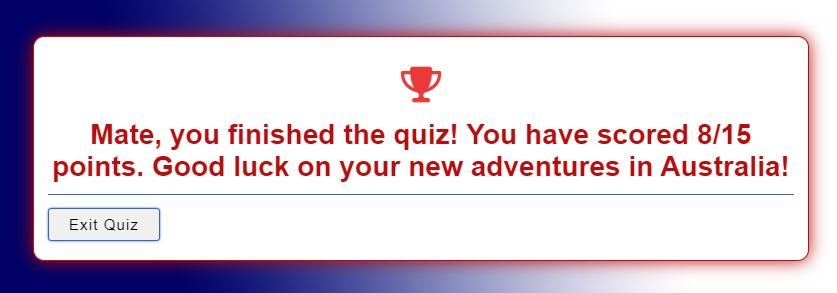
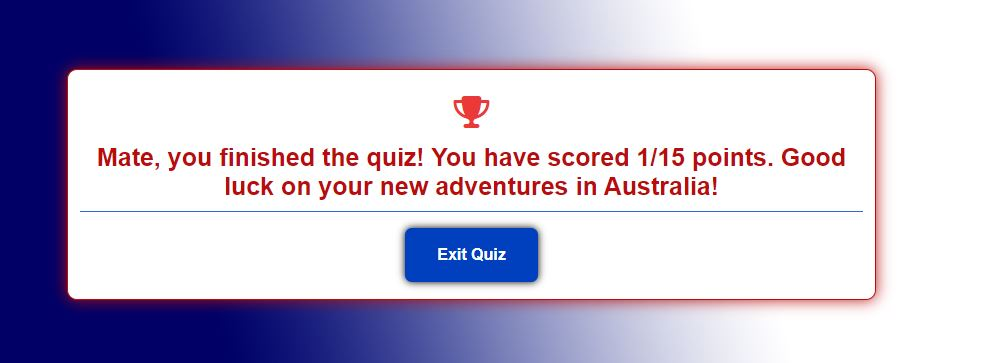
Add new images to readme

diff --git a/assets/css/style.css b/assets/css/style.css
@@ -262,10 +262,10 @@ header {
 
 #feedback-exit {
     color: rgb(255, 255, 255);
-    border: 2px solid #003fbe;
-    box-shadow: 0 0 2px black;
-    font-size: 15px;
-    width: 150px;
+    border: 10px solid #003fbe;
+    font-weight: bold;
+    box-shadow: 0 0 8px black;
+    width: 97px;
     border-radius: 7px;
     padding: 8px;
     margin: 5px auto 0;
@@ -277,7 +277,7 @@ header {
 }
 
 #feedback-exit:hover{
-    box-shadow: 0 0 4px black;
+    box-shadow: 0 0 15px black;
 }
 
 /* Hides content when needed*/

diff --git a/README.md b/README.md
@@ -1,4 +1,6 @@
+
 # Aussie Approved
+
 Aussie Approved is a website with a quiz, that want to reach out to people that are planning to backpack Australia. In this website they will learn the Australian slang, so they are ready to fit in and get approved by the aussies!
 It has 15 questions and have 4 diffrent options. The website is responsive and fit large screens, medium screens, tablets and phones. In the end of the quiz there will be a feedback page that tells the user how much they scored, also a quit button to return back to the home page.
 ![Website in diffrent screens](assets/readme-images/responsive.JPG)
@@ -7,18 +9,22 @@ It has 15 questions and have 4 diffrent options. The website is responsive and f
 ## User Experience
 
 #### First user goals
+
 This quiz is for people that want to backpack Australia and fit in easily. They will have a better chance at that by learning the aussie slangs that I use in this quiz.
-- As a first time user, I want them to quickly understand what the webpage is about. 
+
+- As a first time user, I want them to quickly understand what the webpage is about.
 - It should be an easy quiz where the user don't get confused by disturbing design or pop ups.
 - The countent should be easy readable and with as litle grammatical mistakes as possible.
 - Smooth navigation through the quiz.
 
 #### Returning user goals
+
 - Coming back to the quiz becauce they want a refresher.
 - Coming back to show their friends and family.
 - If I were to add high score and different levels of difficulty the user could challenge themself and their friends and family.
 
 ### Wireframes
+
 I made wireframes to get an idea of how I wanted my website to turn out. I also made it to see how it would act with responsivness for better user experience. I changed the look of it to make it look more like you are on the same webpage when the quiz begins.
 ![Wireframe for home page](assets/readme-images/wireframes.JPG)
 ![Wireframe for quiz](assets/readme-images/questions-wireframes.JPG)
@@ -26,11 +32,13 @@ I made wireframes to get an idea of how I wanted my website to turn out. I also 
 ## Design
 
 ### Color theme
+
 I wanted the website to have the same theme through the whole process to make it more user friendly. I did that by having the same colors and background image in every step. I focused on having colors with good contrast for readability, for example blue and red. I also matched the colors with the Australian flag to keep the theme of Australia. I used the colors black and white to have a nice structured layout.
 ![Color palette for the website](assets/readme-images/colors.JPG)
 The color palette was created using the [Colormind](https://colormind.io/) website.
 
 ### Typografi
+
 [Google fonts](https://fonts.google.com/) were used for the title in the home page. I choose 'Lisa Bosa' because I thought it looked playful, perfect for a quiz. I used the common Arial for titles in the rule, quiz and feedback box to make it easier to read, while it still don't look to serious. For the buttons and the rules text I used the defualt font Times New Roman. To make some contrats and have them more serious looking.
 
 ## Features
@@ -44,70 +52,97 @@ The color palette was created using the [Colormind](https://colormind.io/) websi
 - Feedback for user to know which question where correct and how much they scored.
   
 ### Future features
+
 - A page to store the users high score.
 - A option to share your score for social media.
 - Different levels of difficulty in the quiz.
   
 ### Home page
+
 The home page is working fully responsively and has the same background like the rest of the pages. It has a small concrete sub heading that is telling the user what the website/quiz is for and how they can use knowledge from it in real life. The home page also have a Start Quiz button that has a hover on it and a pointer to make it easier for the user to understand that its something to click on.
 ![Home page](assets/readme-images/home-page.JPG)
 
 ### Rules page
+
 A page where the user can see how the quiz is planned out.
 ![Rules page](assets/readme-images/rules-page.JPG)
 
 ### Quiz page
+
 When the user clicked continue the quiz starts with a timer, they have 15 seconds to choose their answer. When an answer is selected the quiz give the user instant feedback if it was the correct or incorrect answer by the colors green for correct and red for incorrect. The user can also see in the bottom corner how many questions they have left. The next button don't show up until the user have chosen their answer to prevent cheating.
 ![Quiz page](assets/readme-images/quiz-page.JPG)
 ![Quiz correct/incorrect page](assets/readme-images/quiz-correct.JPG)
 
 ### Feedback page
-When all of the questions are answered the user reach the feedback page where they get to know how much they scored in the quiz. 
+
+When all of the questions are answered the user reach the feedback page where they get to know how much they scored in the quiz.
 ![Feedback page](assets/readme-images/feedback-page.JPG)
 
 ## Testing
+
 ### Manual testing
-- I been testing the website many times by playing the game. I also been asking friends and family to check it out.
-* Checking that all the buttons works
-* Make different choices in the quiz to see the colors for correct and incorrect answer.
-* Looking at the feedback at the end of the quiz to see if it counts correct answers. 
-* Checking that the timer works when quiz begins. Also see if new questions comes up when the timer is finished. 
-* Looked at the background of the website that it's not pixeled or stretch out on any pages. Also that it has good contrast with text elements.
+
+I been testing the website manual many times by playing the game. I also been asking friends and family to check it out:
+
+- Checking that all the buttons works.
+- Make different choices in the quiz to see the colors for correct and incorrect answer.
+- Looking at the feedback at the end of the quiz to see if it counts correct answers.
+- Checking that the timer works when quiz begins. Also see if new questions comes up when the timer is finished.
+- See if the game counts every question that you answered to in the bottom of the quiz.
+- Looked at the background of the website that it's not pixeled or stretch out on any pages. Also that it has good contrast with text elements.
+
 ### Automated testing
+
 - The website have been tested with W3C Validator, Jigsaw Validator, Js Hint, The Am I Responsive website, Google Chrome lighthouse and for console errors.
 - All pages have been tested for screen sizes from 320px up to 1300px.
+
 ### Code validation
+
 #### HTML
+
 No errors where found in the code with the W3C Validator.
+
 #### CSS
+
 The code made it through Jigsaws validatore with no problems.
+
 #### JavaScript
+
 No warnings in JSHint validatore.
+
 ### Am I responsive
+
 I looked at this [website](https://ui.dev/amiresponsive?url=https://8000-klaramartinsson-aussie-a-rpeqpg0a1z.us2.codeanyapp.com/index.html) when I was making media queries to make sure the webpage looked good on all screens.
 
 ### Accessibility
+
 I used Google Chromes lighthouse to be sure of the accessiblity. All of the pages have a good accessibility score. More things I done for the acessibility are:
+
 - My text colors have good contrast to the backgrounds.
 - Using semantic HTML.
 - A good overall contrast with my colors.
 - No disturbing background images or fonts that makes the text difficult to read.
 - All buttons have hover effect so the user will know when they can click something.
+
 ![Websites performance, accessibility and more](assets/readme-images/lighthouse.JPG)
 
 ## Fixed bugs
-![Fixed bug](assets/readme-images/bug.JPG)
-After the time went down to 0 it started to count negative numbers. I fixed this by making an if statement in JavaScript. Now that the timer counts down it stops at 0. 
 
-It was possible to press the next button in the quiz so you didnt have to choose an answer. I changed that by putting a hide class on the button and remove the class with an if statement when an answer is selected. 
+![Fixed bug](assets/readme-images/bug.JPG)
+After the time went down to 0 it started to count negative numbers. I fixed this by making an if statement in JavaScript. Now that the timer counts down it stops at 0.
+
+It was possible to press the next button in the quiz so you didnt have to choose an answer. I changed that by putting a hide class on the button and remove the class with an if statement when an answer is selected.
 
 Once the user run out of questions the game doesn't end. So I added the showFeedback function to run if the questions are done.
 
 ## Unfixed bugs
-When you click on a option in the quiz the score goes up or down, making it easier to cheat. 
+
+When you click on a option in the quiz the score goes up or down, making it easier to cheat.
 
 ## Deployment
+
 Git hub pages was used to deploy the live site as following:
+
 - Log in to Git hub.
 - Go to the GitHub repository [Aussie Approved](https://github.com/KlaraMartinsson/aussie-approved), navigate to settings.
 - In the left-hand side navigation bar click pages.
@@ -116,16 +151,21 @@ Git hub pages was used to deploy the live site as following:
 - All codes, files and images have been added in Github by using Git commands: git add ., git commit -m and git push.
 
 ## Credits
+
 ### Content
+
 - The content from the quiz is from [Australia day](https://www.australiaday.com.au/fun-activities/take-the-aussie-slang-quiz/), [Insiders guides](https://insiderguides.com.au/aussie-slang-test/) or by myself.
 
 ### Media
+
 I made the background image myself in Photoshop with the australian flag that I took from [Pixabays website](https://pixabay.com/) I also took my icon for the browser tab from Pixabay. I used [Font Awesome](https://fontawesome.com/) for the feedback icon with the trophie.
 
 ### Code used
+
 I used a video from [Web Dev Simplified](https://www.youtube.com/watch?v=riDzcEQbX6k) as tutorial for the backbone of the JavaScript. I also used a video from [Coding Nepal](https://www.youtube.com/watch?v=WUBhpSRS_fk&t=0s) for knowledge about counting questions in the quiz. I got help with the timer from [Reach Star](https://www.youtube.com/watch?v=4piMZDO5IOI)
 The code snippet to create the shadows around the containers and buttons was learnt from this [CSS leason](https://www.w3schools.com/css/css3_shadows.asp).
 
 ## Acknowledgementes
+
 - My family and friends for checking out the webpage on their screens and giving critic.
 - My mentor Seun for giving helpful advise about the design.
